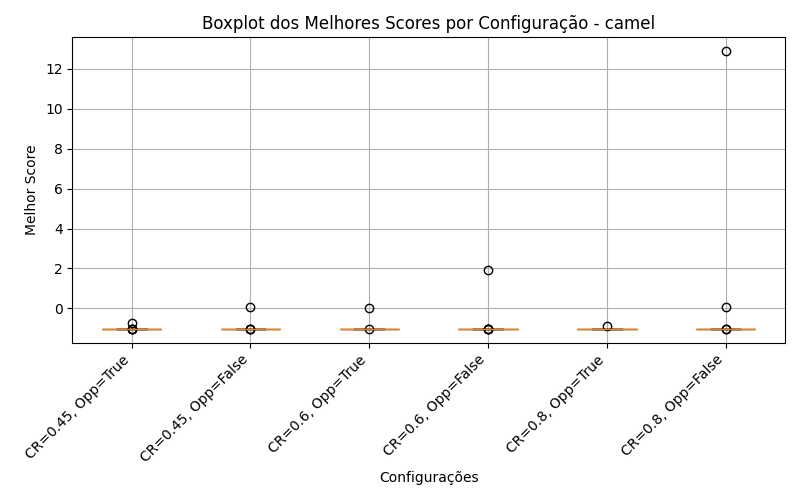
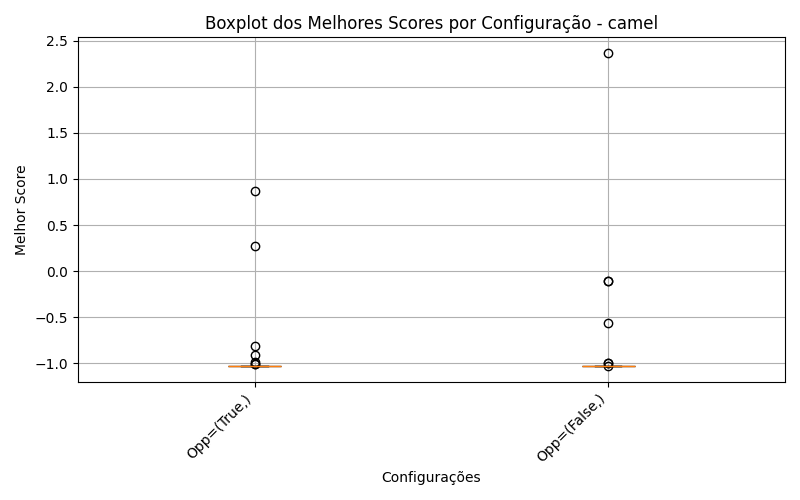
run_tlbo_flowchart finished

diff --git a/main.py b/main.py
@@ -4,17 +4,17 @@ import matplotlib.pyplot as plt
 import itertools
 import statistics
 
-from tlbo_algorithm import run_clonal_g
+from tlbo_algorithm import run_tlbo_flowchart
 
 
-def get_result_and_plot(generations, m, data_config, SR, CR, gamma, opposition, config_code):
+def get_result_and_plot(generations, m, data_config, opposition, config_code):
     all_results = []
     all_scores_g = []
     best_result = None
     best_score = float('inf')  # ou float('-inf') dependendo se você minimiza ou maximiza
 
     for i in range(1):
-        result, scores_g = run_clonal_g(generations=generations, P=m, SR=SR, CR=CR, gama_seed=gamma, data_config=data_config, opposition=opposition)
+        result, scores_g = run_tlbo_flowchart(iterations=generations, P=m, data_config=data_config, opposition=opposition)
         all_results.append(result)
         all_scores_g.append(scores_g)
 
@@ -34,9 +34,6 @@ def get_result_and_plot(generations, m, data_config, SR, CR, gamma, opposition, 
     return {
         "best_result": best_result,
         "mean_scores_g": mean_scores_g,
-        "SR": SR,
-        "CR": CR,
-        "gamma": gamma,
         "opposition": opposition,
         "generations": generations,
         "m": m,
@@ -58,9 +55,6 @@ def your_function_to_track():
         },
     }
     all_results = []
-
-    SR = 0.8
-    CRs = [0.45, 0.6, 0.8]
     oppositions = [True, False]
     gamma = 0.1  # Constante
 
@@ -68,9 +62,9 @@ def your_function_to_track():
 
     for problem, target in {"shubert": -186.7309, "camel": -1.0316}.items():
         data_config["problem"] = problem
-        for CR, opposition in itertools.product(CRs, oppositions):
-            print(f"Rodando: prob={problem}, gen={generations}, m={m}, SR={SR}, CR={CR}, gamma={gamma}, opp={opposition}, config={config_counter}")
-            result_dict = get_result_and_plot(generations, m, data_config, SR, CR, gamma, opposition, config_counter)
+        for opposition in itertools.product(oppositions):
+            print(f"Rodando: prob={problem}, gen={generations}, m={m}, opp={opposition}, config={config_counter}")
+            result_dict = get_result_and_plot(generations, m, data_config, opposition, config_counter)
             all_results.append(result_dict)
             config_counter += 1
 
@@ -86,7 +80,7 @@ def your_function_to_track():
         plt.grid(True)
         plt.xticks(
             range(1, len(data) + 1),
-            [f"CR={r['CR']}, Opp={r['opposition']}" for _, r in data.iterrows()],
+            [f"Opp={r['opposition']}" for _, r in data.iterrows()],
             rotation=45,
             ha="right"
         )
@@ -111,14 +105,17 @@ def your_function_to_track():
         df_ga_camel_PSO = pd.read_csv("previous_results/melhores_fitness_camel_PSO.csv", header=None)
         df_ga_shubert_de = pd.read_csv("previous_results/melhores_fitness_shubert_de.csv", header=None)
         df_ga_camel_de = pd.read_csv("previous_results/melhores_fitness_camel_de.csv", header=None)
+        df_ga_shubert_clonalg = pd.read_csv("previous_results/melhores_fitness_shubert_clonalg.csv", header=None)
+        df_ga_camel_clonalg = pd.read_csv("previous_results/melhores_fitness_camel_clonalg.csv", header=None)
 
         # === Gráfico de comparação SHUBERT
         plt.figure(figsize=(8, 5))
         plt.axhline(y=-186.7309, color="r", linestyle="--", label="Valor esperado (target)")
-        plt.plot(range(1, len(best_shubert["mean_scores_g"]) + 1), best_shubert["mean_scores_g"], 'o-', label=f"CLONALG (CR={best_shubert['CR']}, Opp={best_shubert['opposition']})", color="blue")
+        plt.plot(range(1, len(best_shubert["mean_scores_g"]) + 1), best_shubert["mean_scores_g"], 'o-', label=f"TLBO (Opp={best_shubert['opposition']})", color="blue")
         plt.plot(ast.literal_eval(df_ga_shubert_GA.iloc[7].values[1]), 'x-', label="GA", color="green")
         plt.plot(ast.literal_eval(df_ga_shubert_PSO.iloc[4].values[1]), 'x-', label="PSO", color="orange")
         plt.plot(ast.literal_eval(df_ga_shubert_de.iloc[1].values[1]), 'x-', label="DE", color="red")
+        plt.plot(ast.literal_eval(df_ga_shubert_clonalg.iloc[1].values[1]), 'x-', label="CLONALG", color="black")
         plt.title("Comparação da evolução do GA e DE - Shubert")
         plt.xlabel("Gerações")
         plt.ylabel("Score")
@@ -129,16 +126,18 @@ def your_function_to_track():
         # === Gráfico de comparação CAMEL
         plt.figure(figsize=(8, 5))
         plt.axhline(y=-1.0316, color="r", linestyle="--", label="Valor esperado (target)")
-        plt.plot(range(1, len(best_camel["mean_scores_g"]) + 1), best_camel["mean_scores_g"], 'o-', label=f"clonalf (CR={best_camel['CR']}, Opp={best_camel['opposition']})", color="blue")
+        plt.plot(range(1, len(best_camel["mean_scores_g"]) + 1), best_camel["mean_scores_g"], 'o-', label=f"TLBO (Opp={best_camel['opposition']})", color="blue")
         plt.plot(ast.literal_eval(df_ga_camel_GA.iloc[7].values[1]), 'x-', label="GA", color="green")
         plt.plot(ast.literal_eval(df_ga_camel_PSO.iloc[4].values[1]), 'x-', label="PSO", color="orange")
         plt.plot(ast.literal_eval(df_ga_camel_de.iloc[1].values[1]), 'x-', label="DE", color="red")
+        plt.plot(ast.literal_eval(df_ga_camel_clonalg.iloc[1].values[1]), 'x-', label="CLONALG", color="black")
         plt.title("Comparação da evolução do GA e DE - Camel")
         plt.xlabel("Gerações")
         plt.ylabel("Score")
         plt.legend()
         plt.grid(True)
         plt.savefig('images/comparation_camel_de.png')
+        plt.ylim(-2.0, 0.0)
     except FileNotFoundError:
         print("Arquivos 'melhores_fitness_shubert.csv' ou 'melhores_fitness_camel.csv' não encontrados para comparação com GA.")
 

diff --git a/tlbo_algorithm.py b/tlbo_algorithm.py
@@ -59,7 +59,7 @@ def mutate(cl, gamma_seed, data_config, fit):
     new_x2 = min(x2_top, max(x2_base, cl[1] + random.uniform(-alfa_x2, alfa_x2)))
     return [new_x1, new_x2]
 
-def run_tlbo(iterations, P, data_config, opposition):
+def run_tlbo_flowchart(iterations, P, data_config, opposition):
     population = initialize(P, data_config, opposition)
     scores = run_function(data_config, population)
 
@@ -153,5 +153,5 @@ if __name__ == "__main__":
             "x2": {"base": -10, "top": 10},
         },
     }
-    score, scores = run_tlbo(iterations=30, P=100, data_config=data_config, opposition=False)
+    score, scores = run_tlbo_flowchart(iterations=30, P=100, data_config=data_config, opposition=False)
     print(score)
